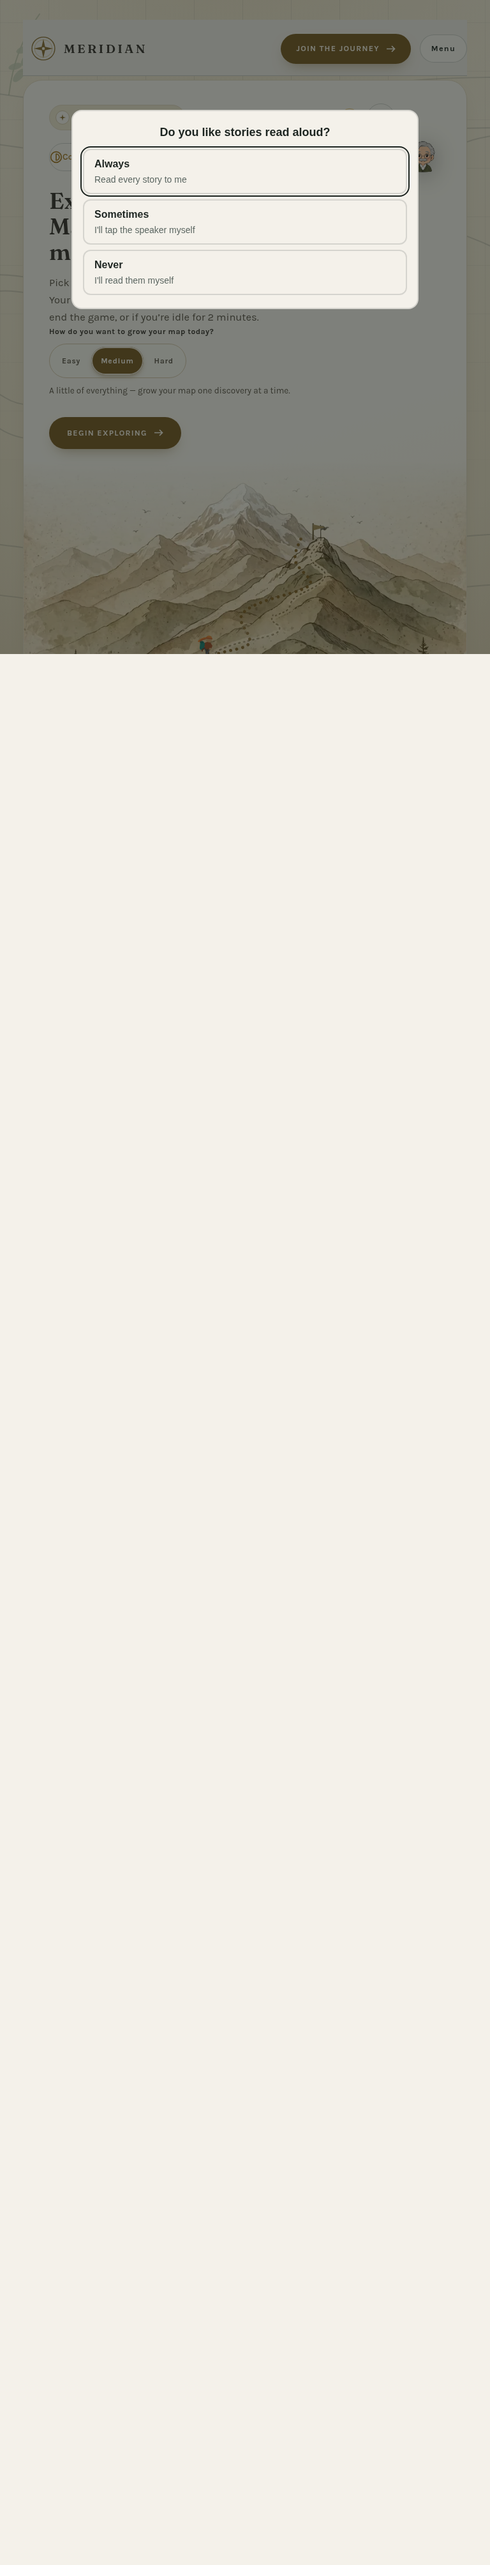
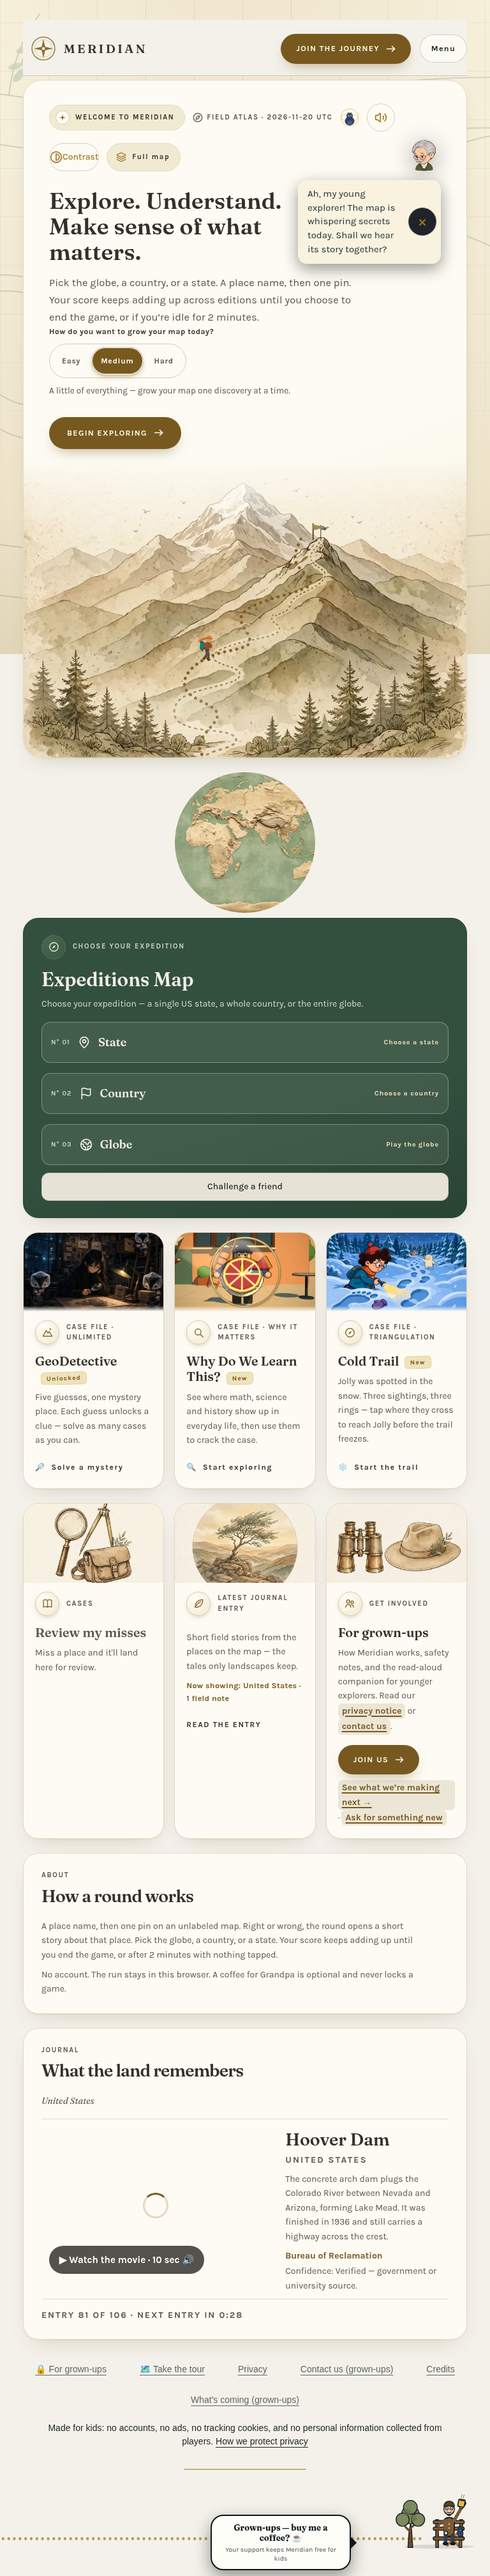
Re-shoot the read-aloud modal captures with the two-shot method

diff --git a/tests/e2e/read-aloud-modal.desktop.spec.ts b/tests/e2e/read-aloud-modal.desktop.spec.ts
@@ -171,12 +171,20 @@ for (const choice of [
 }
 
 /**
- * Owner captures (mocks are always full page): with CAPTURE_MODAL=1
- * this writes the modal's full-page captures at the four owner
- * widths into docs/motion-verify/. Skipped in normal runs so CI
- * never churns the committed captures.
+ * Owner captures: with CAPTURE_MODAL=1 this writes a TWO-SHOT pair
+ * per owner width into docs/motion-verify/. Skipped in normal runs
+ * so CI never churns the committed captures.
+ *
+ * Why two shots: while the sheet is up the modal's scroll lock
+ * collapses the document to the viewport height, so a fullPage
+ * screenshot taken with the sheet up stitches the page height but
+ * renders it blank (the original captures were void by
+ * construction — the page itself was intact). The honest pair is:
+ * (a) an arrival VIEWPORT shot with the sheet up, and (b) a
+ * full-page shot taken after answering "Never", when the page
+ * scrolls and paints in full.
  */
-test("captures: modal full-page at 1280, 768, 390, 320", async ({ page }) => {
+test("captures: modal arrival + answered full-page at 1280, 768, 390, 320", async ({ page }) => {
   test.skip(process.env.CAPTURE_MODAL !== "1", "captures are produced on demand only");
   await page.emulateMedia({ reducedMotion: "reduce" });
   for (const [width, height] of [
@@ -187,7 +195,13 @@ test("captures: modal full-page at 1280, 768, 390, 320", async ({ page }) => {
   ] as const) {
     await page.setViewportSize({ width, height });
     await page.goto(APP_NO_IDLE);
-    await reachSheet(page);
+    const sheet = await reachSheet(page);
+    await page.screenshot({
+      path: `docs/motion-verify/read-aloud-modal-arrival-${width}px.png`,
+    });
+    await sheet.getByRole("button", { name: /Never/ }).click();
+    await expect.poll(() => storedPref(page)).toBe("never");
+    await page.waitForTimeout(600);
     await page.screenshot({
       path: `docs/motion-verify/read-aloud-modal-full-${width}px.png`,
       fullPage: true,

diff --git a/docs/branch-status/feat-read-aloud-modal.md b/docs/branch-status/feat-read-aloud-modal.md
@@ -110,3 +110,97 @@ produced by the spec's env-gated capture test (CAPTURE_MODAL=1).
 - The backdrop color moved to a `--scrim` token in the `styles.css`
   `:root` block (same value, `rgba(21, 28, 24, 0.55)`); the backdrop
   rule now reads `var(--scrim)`. No visual change.
+
+## Capture verification — CHECKPOINT (2026-11-20, capture re-shoot leg)
+
+Budget: hard cap 20k tokens for this leg; checkpoint at ~12k reached.
+Spent estimate: ~12k (±30% — no meter; two full doc reads, one build,
+one probe run, one screenshot read). DONE below; the re-shoot REMAINS.
+
+### Diagnosis: the "half empty" captures are a CAPTURE ARTEFACT [measured]
+
+The owner reported the four `read-aloud-modal-full-*px.png` captures
+show the hero + sheet over a blank cream void. Verdict: the page is
+intact; the full-page capture method is what failed.
+
+- While the modal is up, the below-hero sections EXIST in the DOM
+  with real geometry: 76 sized elements below the fold at 1280×800
+  (footer present; globe SVG parts at document tops 949/1053/1166).
+- The modal's scroll lock (overflow hidden on body + root, by
+  design) collapses `document.scrollHeight` to the viewport height
+  (800 at 1280×800); a scripted scroll attempt stays at scrollY 0.
+- After answering "Never", the same page scrolls freely (scrollY
+  1400) and the below-hero sections PAINT in a real viewport:
+  editions/case cards (GeoDetective, Cold Trail, Review my misses,
+  Journal, For grown-ups) fully rendered in the probe screenshot.
+- The returning-visit full-page capture is 1280×3642 — the same
+  height as the modal-up full-page capture. The height exists; the
+  modal-up fullPage shot renders it blank because Playwright's
+  fullPage resize/stitch runs against a scroll-locked document with
+  a fixed scrim [inferred mechanism; DOM + paint facts measured].
+- Probe: temporary spec, hermetic recipe (build:pages, flock,
+  --workers=1, pinned Chromium, VITE_KOFI_URL both envs), 1 passed;
+  spec deleted after the run. Probe shots were kept in /tmp only.
+
+### Remaining (next run, on the parent's continuation word)
+
+1. Re-shoot per width (1280×800, 768×1024, 390×844, 320×568):
+   (a) arrival viewport shot with the sheet up →
+   `read-aloud-modal-arrival-<w>px.png`; (b) answer "Never", then
+   fullPage → replaces `read-aloud-modal-full-<w>px.png` (populated).
+   Cleanest path: update the CAPTURE_MODAL test in
+   `tests/e2e/read-aloud-modal.desktop.spec.ts` to this two-shot
+   method (it currently does fullPage with the sheet up — the void
+   method) and run it with CAPTURE_MODAL=1.
+2. Spot-check one arrival shot + the new full-page sizes.
+3. Commit named files only (8 PNGs + the spec), provenance check,
+   push (standing branch authorization).
+4. Append a capture-method correction to the PR #547 body.
+5. Mark this section complete in the branch status.
+
+## Capture continuation — CHECKPOINT (2026-11-20, +15k re-baseline leg)
+
+Budget: hard cap 15k tokens for this leg (owner-approved
+re-baseline); checkpoint at ~9k (60%) reached. Spent estimate: ~9k
+(±30% — no meter; sync + spec rewrite + one build + one capture run
++ dimension read + two screenshot reads). The re-shoot is DONE; the
+records step REMAINS (below).
+
+### Done in this leg [measured]
+
+- Sync: worktree moved onto origin tip `2a1088d6` (the local
+  checkpoint commit `32711b72` was verified status-file-only; its
+  section is re-applied above as a plain edit — no rebase, no
+  force-push).
+- The CAPTURE_MODAL test in
+  `tests/e2e/read-aloud-modal.desktop.spec.ts` now uses the TWO-SHOT
+  method: (a) arrival viewport shot, sheet up →
+  `read-aloud-modal-arrival-<w>px.png`; (b) answer "Never", then
+  fullPage → `read-aloud-modal-full-<w>px.png`. Its comment names
+  why: fullPage against the scroll-locked page stitches blank.
+- Hermetic run PASSED (build:pages, flock, --workers=1, pinned
+  Chromium, VITE_KOFI_URL in build + runner envs): 1 passed.
+- All 8 captures written. Dimensions: arrival 1280×800, 768×1024,
+  390×844, 320×568 (exact viewports); full 1280×3642, 768×4033,
+  390×6288, 320×6428 (tall, populated — the 1280 height matches the
+  owner-approved sample exactly).
+- Spot-check [read first-hand]: arrival-390 — sheet correct
+  ("Do you like stories read aloud?", Always carries the focus
+  ring, page dimmed behind the scrim). full-390 — fully populated:
+  hero, globe, Expeditions Map, GeoDetective / Why Learn / Cold
+  Trail / Review my misses / Journal / For grown-ups cards, "How a
+  round works", footer + Grandpa. No void.
+
+### Remaining (records step, next run)
+
+1. `npm run check:provenance` — must PASS.
+2. Commit named files only: the 8 PNGs in docs/motion-verify/ +
+   `tests/e2e/read-aloud-modal.desktop.spec.ts` + this status file.
+   Owner identity, plain subject, no trailers.
+3. Push to origin `feat/read-aloud-modal` (normal push; base is
+   `2a1088d6`).
+4. Append the capture-method correction to the PR #547 body:
+   the original captures were void by construction (fullPage
+   against a scroll-locked page); replaced by arrival +
+   answered full-page pairs; method named honestly.
+5. Mark the capture sections in this file complete.
